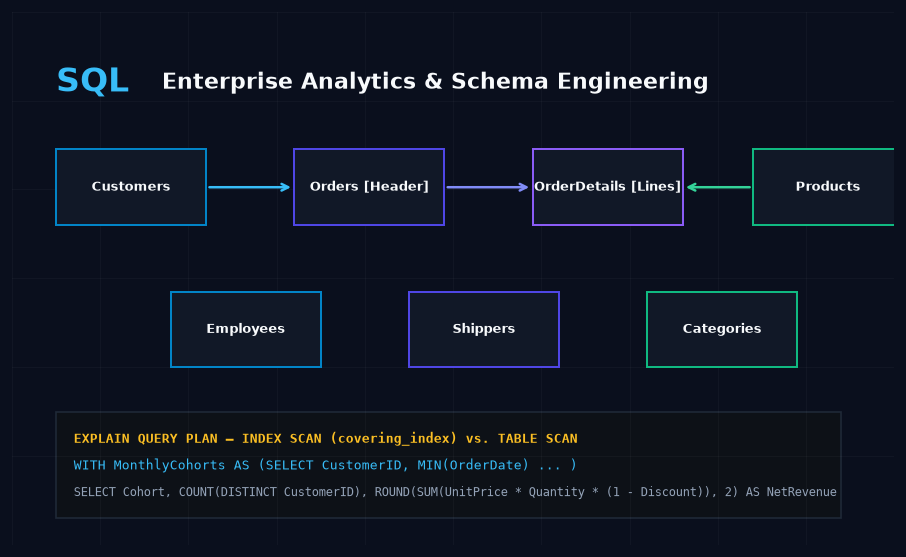
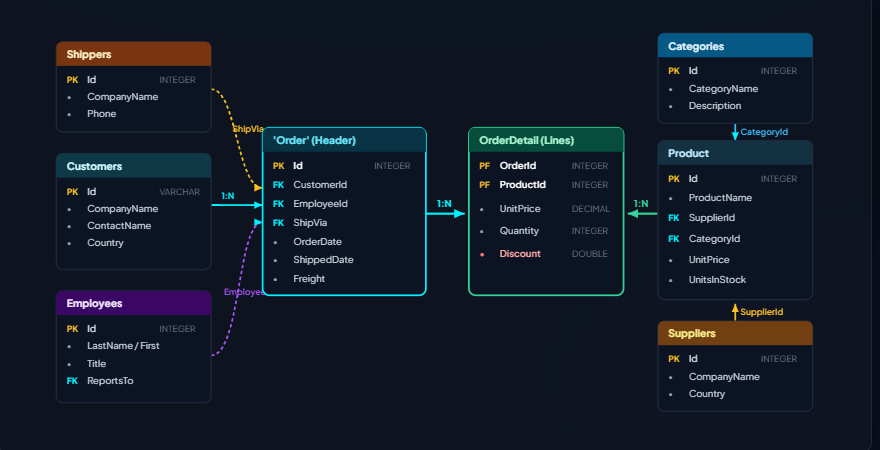
Miniaturas

diff --git a/styles.css b/styles.css
@@ -687,10 +687,10 @@ nav ul li a:active {
 /* ===== PROJECT CARD THUMBNAIL (SHOWCASE) ===== */
 .project-thumb {
   width: 100%;
-  height: 185px;
+  height: 110px;
   border-radius: var(--border-radius-sm);
   overflow: hidden;
-  margin-bottom: 1.25rem;
+  margin-bottom: 1rem;
   position: relative;
   border: 1px solid rgba(255, 255, 255, 0.08);
   background: #080d1a;
